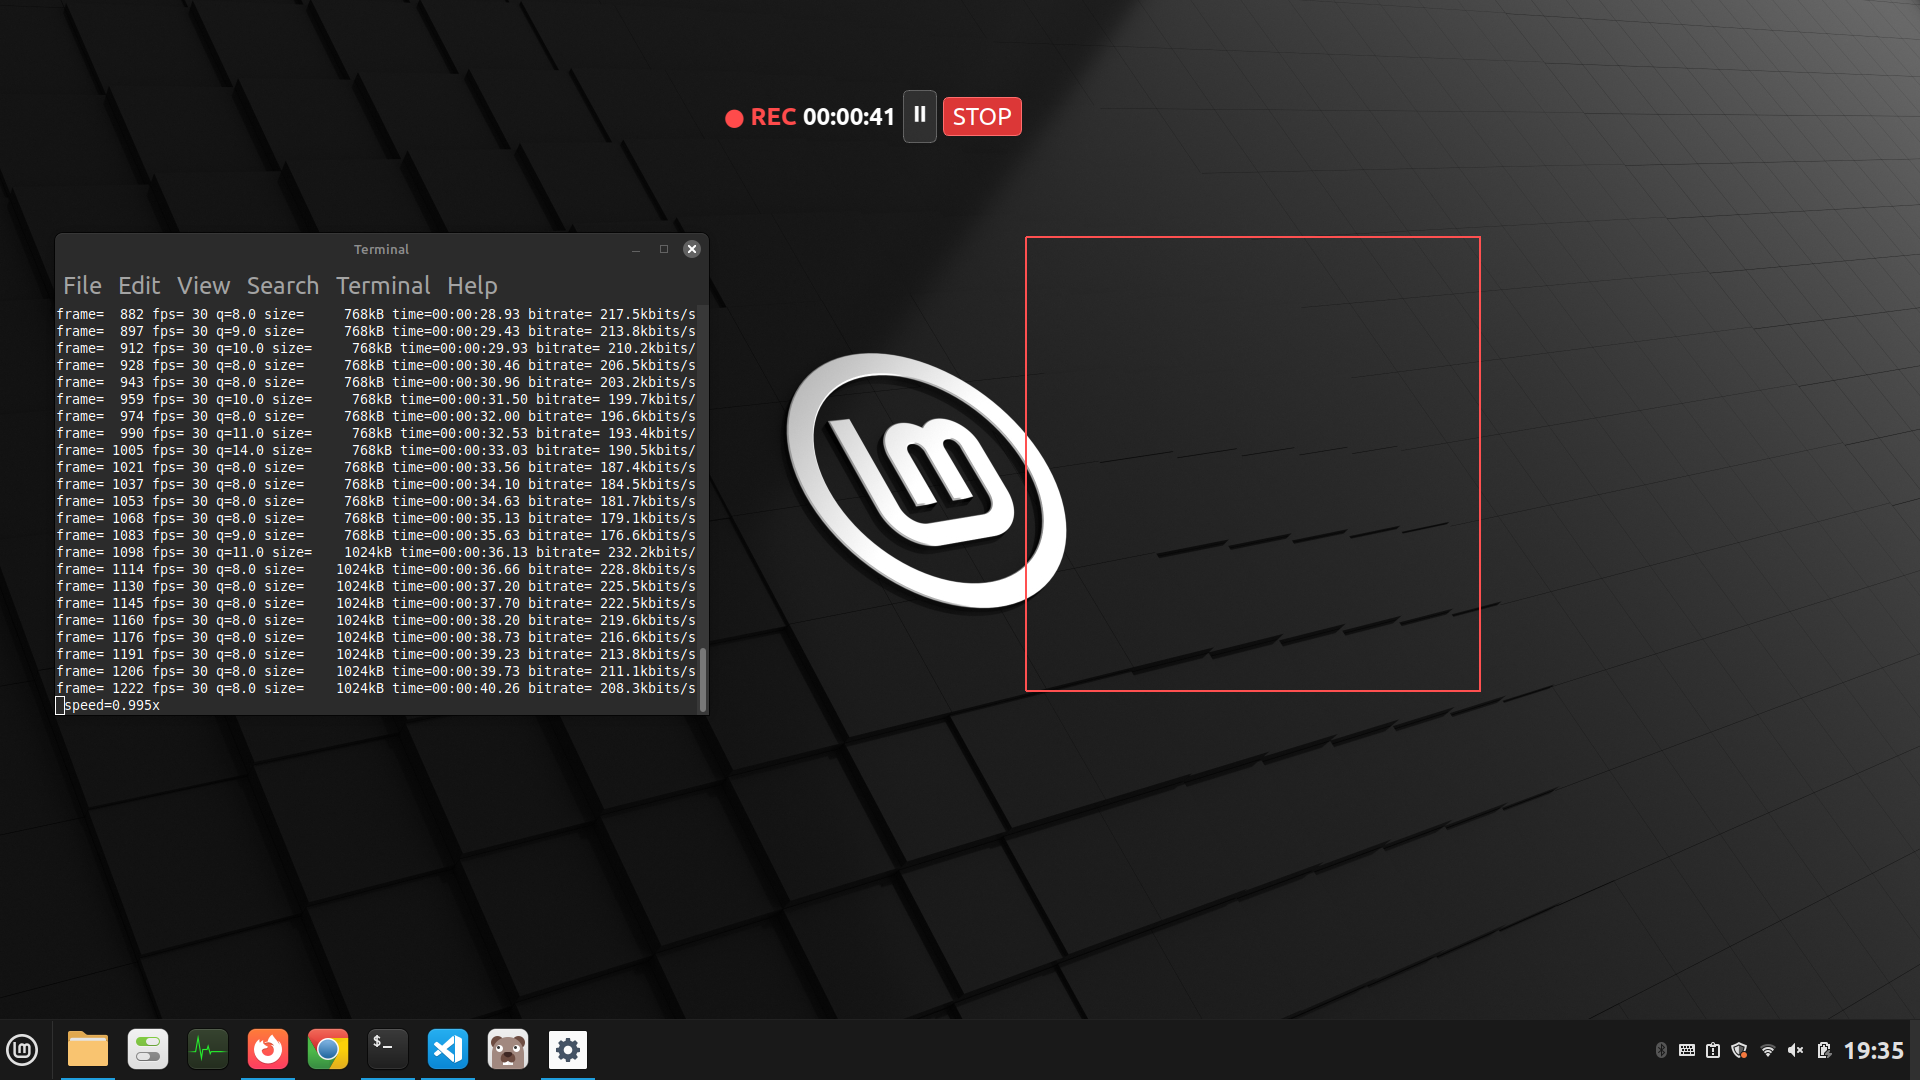
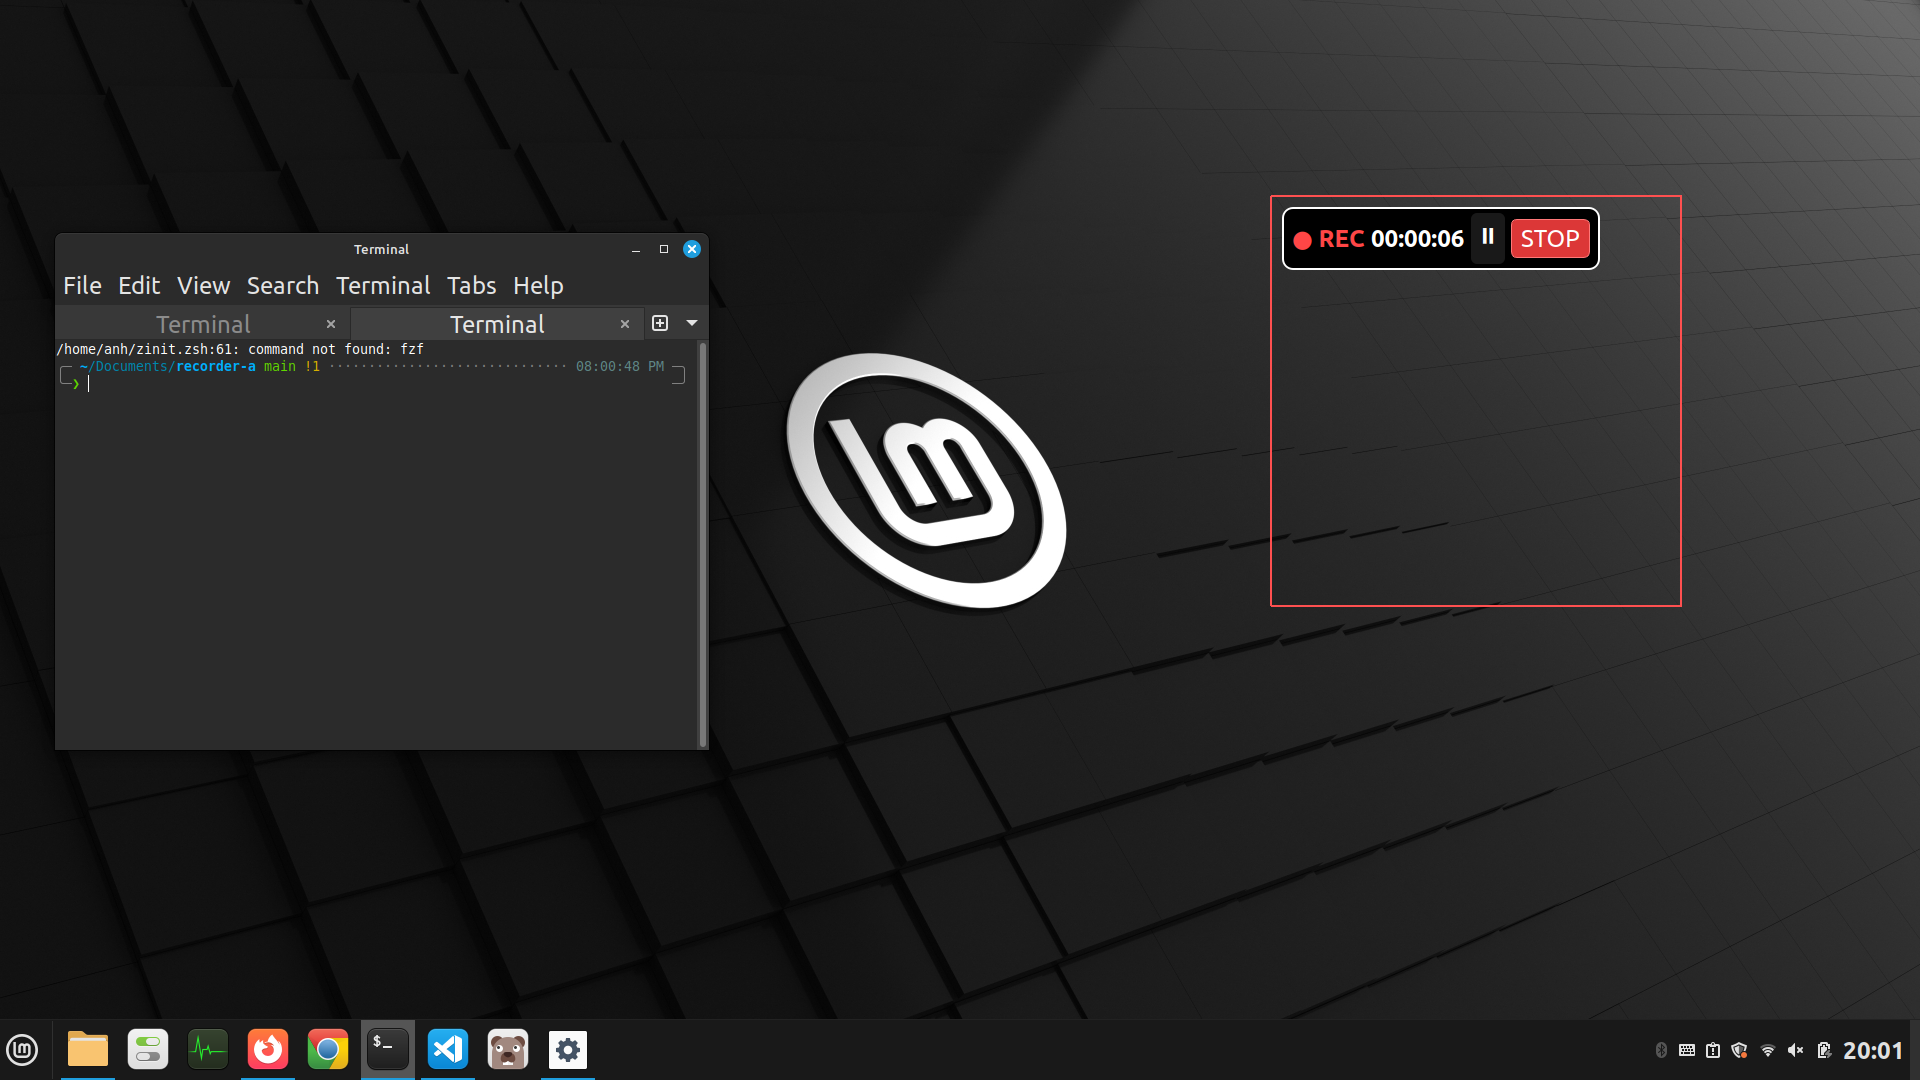
fix stop_bar

diff --git a/views/stop_bar.py b/views/stop_bar.py
@@ -10,7 +10,12 @@ from PySide6.QtCore import (
     QPoint,
     Signal,
 )
-from PySide6.QtGui import QEnterEvent
+from PySide6.QtGui import (
+    QEnterEvent,
+    QPainter,
+    QPen,
+    QBrush,
+)
 
 
 class StopBarWindow(QWidget):
@@ -39,6 +44,11 @@ class StopBarWindow(QWidget):
 
         self.idle_timeout = 3000
 
+        # Mode
+        # False = full
+        # True = compact
+        self.compact_mode = False
+
         # Window
 
         self.setWindowFlags(
@@ -53,15 +63,8 @@ class StopBarWindow(QWidget):
 
         self.setMouseTracking(True)
 
-        # Style
 
         self.setStyleSheet("""
-            QWidget#StopBar {
-                background: rgba(25, 25, 25, 245);
-                border: 1px solid rgba(255, 255, 255, 110);
-                border-radius: 9px;
-            }
-
             QLabel {
                 color: white;
                 font-weight: bold;
@@ -217,6 +220,66 @@ class StopBarWindow(QWidget):
 
         self.show()
 
+    def paintEvent(self, event):
+
+        painter = QPainter(
+            self
+        )
+
+        painter.setRenderHint(
+            QPainter.Antialiasing
+        )
+
+        # Leave a little space for the border
+        rect = self.rect().adjusted(
+            1,
+            1,
+            -1,
+            -1,
+        )
+
+        if self.compact_mode:
+
+            painter.setBrush(
+                QBrush(
+                    Qt.black
+                )
+            )
+
+            painter.setPen(
+                QPen(
+                    Qt.white,
+                    1
+                )
+            )
+
+            radius = 8
+
+        else:
+
+            painter.setBrush(
+                QBrush(
+                    Qt.black
+                )
+            )
+
+            painter.setPen(
+                QPen(
+                    Qt.white,
+                    2
+                )
+            )
+
+            radius = 10
+
+        painter.drawRoundedRect(
+            rect,
+            radius,
+            radius,
+        )
+
+        painter.end()
+
 
     def update_timer(self):
 
@@ -306,6 +369,10 @@ class StopBarWindow(QWidget):
             self.restart_idle_timer()
             return
 
+        # Change mode
+
+        self.compact_mode = True
+
         # Hide controls
         self.pause_button.hide()
         self.stop_button.hide()
@@ -314,14 +381,8 @@ class StopBarWindow(QWidget):
         # Keep timer visible
         self.timer_label.show()
 
-        # Compact style
+        # Compact text style
         self.setStyleSheet("""
-            QWidget#StopBar {
-                background: rgba(25, 25, 25, 150);
-                border: 1px solid rgba(255, 255, 255, 90);
-                border-radius: 8px;
-            }
-
             QLabel {
                 color: rgba(255, 255, 255, 200);
                 font-weight: bold;
@@ -330,45 +391,50 @@ class StopBarWindow(QWidget):
 
         self.adjustSize()
 
+        self.update()
+
+
     def show_full_mode(self):
+
+        # Change mode
+
+        self.compact_mode = False
+
+        # Show controls
 
         self.pause_button.show()
         self.stop_button.show()
         self.rec_label.show()
 
-        self.setStyleSheet("""
-            QWidget#StopBar {
-                background: rgba(25, 25, 25, 245);
-                border: 1px solid rgba(255, 255, 255, 110);
-                border-radius: 9px;
-            }
+        # Full text style
 
+        self.setStyleSheet("""
             QLabel {
                 color: white;
                 font-weight: bold;
             }
 
             QLabel#recLabel {
-                color: rgb(255, 75, 75);
+                color: rgb(255, 70, 70);
             }
 
             QPushButton {
                 background: rgba(255, 255, 255, 25);
                 color: white;
-                border: 1px solid rgba(255, 255, 255, 70);
+                border: none;
                 padding: 5px 9px;
                 border-radius: 6px;
             }
 
             QPushButton:hover {
                 background: rgba(255, 255, 255, 55);
-                border: 1px solid rgba(255, 255, 255, 130);
+                border: none;
             }
 
             QPushButton#stopButton {
                 background: rgb(220, 55, 55);
                 color: white;
-                border: 1px solid rgb(255, 110, 110);
+                border: 1px solid rgb(255, 120, 120);
             }
 
             QPushButton#stopButton:hover {
@@ -377,6 +443,8 @@ class StopBarWindow(QWidget):
         """)
 
         self.adjustSize()
+
+        self.update()
 
 
     def restart_idle_timer(self):
@@ -421,7 +489,7 @@ class StopBarWindow(QWidget):
             .toPoint()
         )
 
-        self.window_start = self.pos()
+        self.window_start = (self.pos())
 
         event.accept()
 
@@ -460,8 +528,7 @@ class StopBarWindow(QWidget):
             self.restart_idle_timer()
 
         event.accept()
-
-    
+        
     def closeEvent(self, event):
 
         self.record_timer.stop()
